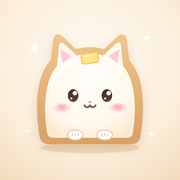
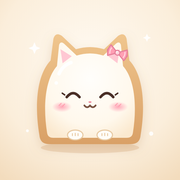
图标：眯眼笑，耳朵上戴蝴蝶结发卡
Claude-Session: https://claude.ai/code/session_01Kju9AuUhCjB8j9UKvKX9Kv

diff --git a/index.html b/index.html
@@ -98,8 +98,8 @@
       if (ok) navigator.serviceWorker.register("./sw.js", { scope: "./", updateViaCache: "none" }).catch(function () {});
     })();
   </script>
-  <link rel="icon" href="icons/icon-192.png?v=6" type="image/png" sizes="192x192">
-  <link rel="apple-touch-icon" href="icons/apple-touch-icon.png?v=6">
+  <link rel="icon" href="icons/icon-192.png?v=7" type="image/png" sizes="192x192">
+  <link rel="apple-touch-icon" href="icons/apple-touch-icon.png?v=7">
   <title>Meow</title>
   <!-- 首帧与浅色开屏同色，避免 style.css 加载前闪色 -->
   <style>

diff --git a/sw.js b/sw.js
@@ -1,4 +1,4 @@
-const CACHE_NAME = "xxj-pwa-v296";
+const CACHE_NAME = "xxj-pwa-v297";
 const KEEPALIVE_PERIODIC_TAG = "xxj-keepalive";
 const SCHEDULE_IDB = "xxj_sw_schedule";
 const SCHEDULE_STORE = "due";
